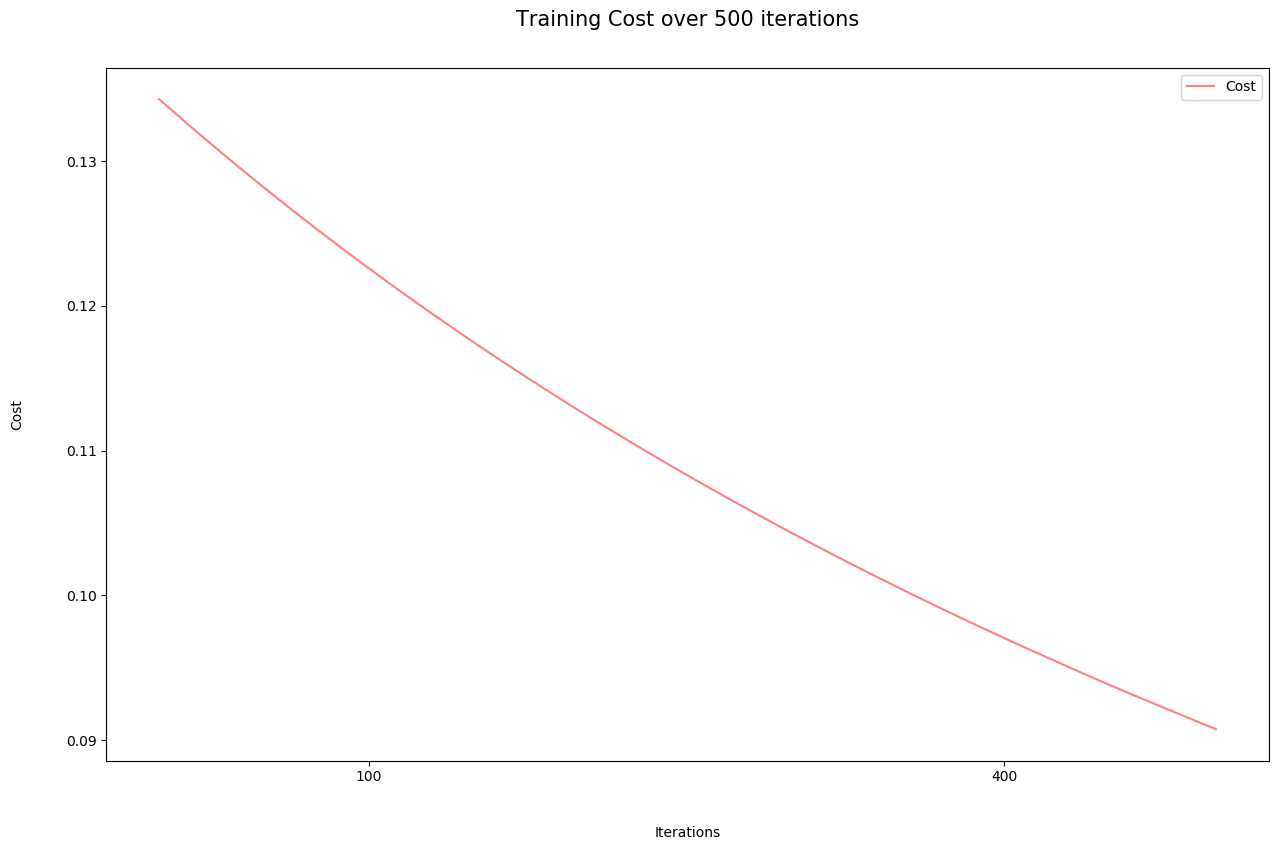
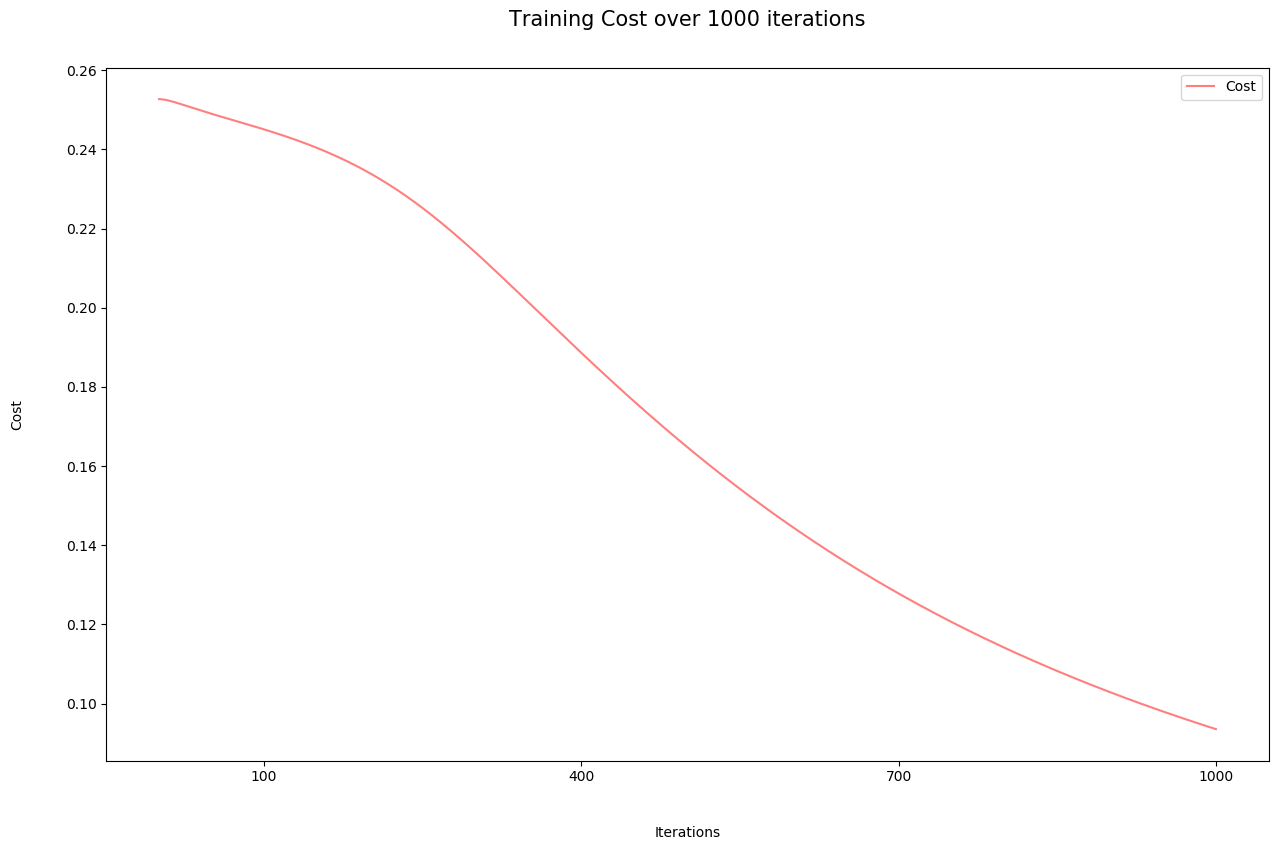
Implement MSELoss and few bug fixes

diff --git a/src/loss_functions/MSELoss.c b/src/loss_functions/MSELoss.c
@@ -1,0 +1,90 @@
+#include "../model/model.h"
+#include "./MSELoss.h"
+
+extern __Model__ * m;
+mse_loss_layer * loss_layer_mse = NULL;
+
+void forward_pass_MSE_LOSS(){
+  //Store the number of training examples in a variable
+  int number_of_examples = m->Y_train->shape[1];
+  dARRAY * Y = loss_layer_mse->gnd_truth;
+  dARRAY * loss = NULL;
+
+  dARRAY * temp_sub = subtract(m->output,Y);
+  loss = power(temp_sub,2);
+
+  free2d(temp_sub);
+  temp_sub = NULL;
+
+  dARRAY * sum_of_losses = sum(loss,1);
+
+  free2d(loss);
+  loss = NULL;
+
+  dARRAY * cost = NULL;
+  dARRAY * cross_entropy_cost = divScalar(sum_of_losses,(float)(number_of_examples));
+  
+  free2d(sum_of_losses);
+  sum_of_losses = NULL;
+
+  float reg_cost=0.0;
+  Computation_Graph * temp = NULL;
+  
+  if(m->regularization!=NULL){
+    temp = m->graph->next_layer;
+    if(!strcasecmp(m->regularization,"L2")){
+      float layer_frobenius = 0.0;
+      while(temp->next_layer->type!=LOSS){
+        layer_frobenius += frobenius_norm(temp->DENSE->weights);
+        temp = temp->next_layer;
+      }
+      reg_cost = m->lambda*layer_frobenius/(2.0*number_of_examples);
+    }
+    else if(!strcasecmp(m->regularization,"L1")){
+      float layer_manhattan = 0.0;
+      while(temp->next_layer->type!=LOSS){
+        layer_manhattan += Manhattan_distance(temp->DENSE->weights);
+        temp = temp->next_layer;
+      }
+      reg_cost = m->lambda * layer_manhattan/(2.0*number_of_examples);
+    }
+  }
+  if(m->regularization!=NULL){
+    cost = addScalar(cross_entropy_cost,reg_cost);
+    temp = NULL;
+
+    free2d(cross_entropy_cost);
+    cross_entropy_cost = NULL;
+
+    float total_cost = cost->matrix[0];
+    free2d(cost);
+    cost = NULL;
+    
+    m->iter_cost = total_cost;
+  }
+  else{
+    cost = cross_entropy_cost;
+    float total_cost = cost->matrix[0];
+    free2d(cost);
+    cost = NULL;
+    m->iter_cost = total_cost;
+  }
+}
+
+void backward_pass_MSE_LOSS(){
+  dARRAY * Y = loss_layer_mse->gnd_truth;
+  dARRAY * temp = subtract(m->output,Y);
+  loss_layer_mse->grad_out = mulScalar(temp,2.0);
+  free2d(temp);
+  temp = NULL;
+}
+
+void (MSELoss)(mse_loss_args args){
+  loss_layer_mse = (mse_loss_layer*)malloc(sizeof(mse_loss_layer));
+  loss_layer_mse->cost = 0.0;
+  loss_layer_mse->grad_out = NULL;
+  loss_layer_mse->forward = forward_pass_MSE_LOSS;
+  loss_layer_mse->backward = backward_pass_MSE_LOSS;
+  loss_layer_mse->gnd_truth = m->Y_train;
+  append_graph(loss_layer_mse,"loss");
+}

diff --git a/src/optimizers/momentum.c b/src/optimizers/momentum.c
@@ -1,0 +1,74 @@
+#include "./momentum.h"
+#include "../model/model.h"
+
+extern __Model__ * m;
+
+void Momentum(){
+  Computation_Graph * temp = m->graph;
+  int layer = 0;
+  while(temp!=NULL){
+    if(temp->type==LOSS || temp->type==INPUT){
+      temp = temp->next_layer;
+      continue;
+    }
+    //calculate first momentum
+    //m_dW
+    float mul_factor = 1-m->beta1;
+    dARRAY * term1 = mulScalar(temp->DENSE->dW,mul_factor);
+    mul_factor = m->beta;
+    dARRAY * term2 = mulScalar(m->m_t_dW[layer],mul_factor);
+    free2d(m->m_t_dW[layer]);
+    m->m_t_dW[layer] = NULL;
+    m->m_t_dW[layer] = add(term1,term2);
+
+    free2d(term1);
+    free2d(term2);
+    term1 = term2 = NULL;
+
+    //m_db
+    term1 = mulScalar(temp->DENSE->db,mul_factor);
+    mul_factor = m->beta;
+    term2 = mulScalar(m->m_t_db[layer],mul_factor);
+    free2d(m->m_t_db[layer]);
+    m->m_t_db[layer] = NULL;
+    m->m_t_db[layer] = add(term1,term2);
+
+    free2d(term1);
+    free2d(term2);
+    term1 = term2 = NULL;
+
+    dARRAY * layer_weights, * layer_biases;
+    layer_weights = NULL;
+    layer_biases = NULL;
+
+    layer_weights = temp->DENSE->weights;
+    layer_biases = temp->DENSE->bias;
+
+    dARRAY * mul_lr_w = mulScalar(m->m_t_dW[layer],m->learning_rate);
+    dARRAY * mul_lr_b = mulScalar(m->m_t_db[layer],m->learning_rate);
+
+    temp->DENSE->weights = subtract(layer_weights,mul_lr_w);
+    temp->DENSE->bias = subtract(layer_biases,mul_lr_b);
+
+    free2d(layer_weights);
+    free2d(layer_biases);
+    free2d(mul_lr_w);
+    free2d(mul_lr_b);
+    layer_weights = layer_biases = mul_lr_w = mul_lr_b = NULL;
+
+    if(temp->DENSE->dropout_mask!=NULL){
+      free2d(temp->DENSE->dropout_mask);
+    }
+    if(temp->DENSE->A!=NULL)
+      free2d(temp->DENSE->A);
+    if(temp->DENSE->cache!=NULL)
+      free2d(temp->DENSE->cache);
+    if(temp->DENSE->dA!=NULL)
+      free2d(temp->DENSE->dA);
+    if(temp->DENSE->dZ!=NULL)
+      free2d(temp->DENSE->dZ);
+    temp->DENSE->dA=temp->DENSE->cache = temp->DENSE->A = temp->DENSE->dropout_mask = temp->DENSE->dZ = NULL;
+    layer++;
+    temp = temp->next_layer;
+  }
+}

diff --git a/src/test/test_network.c b/src/test/test_network.c
@@ -12,40 +12,40 @@ int main(){
   int x_cv_dims[] = {12288,10};
   dARRAY * x_cv = load_x_cv(x_cv_dims);
   
-  int y_train_dims[] = {2,10};
+  int y_train_dims[] = {1,10};
   dARRAY * y_train = load_y_train(y_train_dims);
   
-  int y_cv_dims[] = {2,10};
+  int y_cv_dims[] = {1,10};
   dARRAY * y_cv = load_y_cv(y_cv_dims);
   
   int x_test_dims[] = {12288,10};
-  int y_test_dims[] = {2,10};
+  int y_test_dims[] = {1,10};
 
   dARRAY * x_test = load_x_test(x_test_dims);
   dARRAY * y_test = load_y_test(y_test_dims);
 
   Input(.layer_size=12288);
-  Dense(.layer_size=10,.activation="relu",.initializer="he",.layer_type="hidden");
-  Dense(.layer_size=32,.activation="relu",.initializer="he",.layer_type="hidden");
+  // Dense(.layer_size=10,.activation="relu",.initializer="he",.layer_type="hidden");
+  // Dense(.layer_size=32,.activation="relu",.initializer="he",.layer_type="hidden");
   Dense(.layer_size=16,.activation="relu",.layer_type="hidden");
-  Dense(.layer_size=2,.activation="softmax",.initializer="random",.layer_type="output");
+  Dense(.layer_size=1,.activation="sigmoid",.initializer="random",.layer_type="output");
   Model(.x_train=x_train,.Y_train=y_train,.x_cv=x_cv,.Y_cv=y_cv,.x_test=x_test,.Y_test=y_test,\
-        .num_iter=500,.learning_rate=4e-3,.optimizer="sgd",.checkpoint_every=-1
+        .num_iter=1000,.learning_rate=4e-3,.optimizer="momentum",.checkpoint_every=-1,.loss="MSELoss"
        );
 
   // m->load_model("test_patch2.t7");
-  // m->fit();
+  m->fit();
   // m->save_model("test_patch3.t7");
-  // m->test();
+  m->test();
 
-  // dARRAY * test_img1 = load_test_image("test_img1.data");
-  // dARRAY * test_img2 = load_test_image("test_img2.data");
+  dARRAY * test_img1 = load_test_image("test_img1.data");
+  dARRAY * test_img2 = load_test_image("test_img2.data");
 
-  // m->predict(test_img1);
-  // m->predict(test_img2);
+  m->predict(test_img1);
+  m->predict(test_img2);
   
-  // free2d(test_img1);
-  // free2d(test_img2);
-  // plot_train_scores();
+  free2d(test_img1);
+  free2d(test_img2);
+  plot_train_scores();
   destroy_model();
 }

diff --git a/src/model/model.c b/src/model/model.c
@@ -23,6 +23,7 @@ void __initialize_params__(){
   if(!strcasecmp(m->optimizer,"adam")) flag = 1;
   if(!strcasecmp(m->optimizer,"adagrad")) flag = 2;
   if(!strcasecmp(m->optimizer,"rmsprop")) flag = 2;
+  if(!strcasecmp(m->optimizer,"momentum")) flag = 3;
   while(temp!=NULL){
     m->current_layer = temp;
     if(temp->type==DENSE){
@@ -42,6 +43,13 @@ void __initialize_params__(){
       int dims_db[] = {temp->DENSE->bias->shape[0],temp->DENSE->bias->shape[1]};
       m->cache_dW[index] = zeros(dims_dW);
       m->cache_db[index] = zeros(dims_db);
+      index++; 
+    }
+    else if(flag==3 && temp->type!=LOSS){
+      int dims_dW[] = {temp->DENSE->weights->shape[0],temp->DENSE->weights->shape[1]};
+      int dims_db[] = {temp->DENSE->bias->shape[0],temp->DENSE->bias->shape[1]};
+      m->m_t_dW[index] = zeros(dims_dW);
+      m->m_t_db[index] = zeros(dims_db);
       index++; 
     }
     temp = temp->next_layer;
@@ -295,6 +303,9 @@ void __fit__(){
     }
     else if(!strcasecmp(m->optimizer,"sgd")){
       SGD();
+    }
+    else if(!strcasecmp(m->optimizer,"momentum")){
+      Momentum();
     }
     else{
       printf("Optimizer selected is not available\n");
@@ -654,7 +665,7 @@ void (destroy_model)(){
   if(m->Y_cv!=NULL)
   free2d(m->Y_cv);
   if(m->output!=NULL)
-  free2d(m->output);
+  // free2d(m->output);
   if(m->x_test!=NULL)
   free2d(m->x_test);
   if(m->Y_test!=NULL)
@@ -695,6 +706,7 @@ void (Model)(Model_args model_args){
   m->regularization = model_args.regularization;
 
   if(!strcasecmp(m->loss,"cross_entropy_loss")) cross_entropy_loss();
+  if(!strcasecmp(m->loss,"MSELoss")) MSELoss();
 
   //initialize hyperparameters for various optimizers
   m->optimizer = model_args.optimizer; // Optimizer choice

diff --git a/src/loss_functions/cross_entropy_loss.c b/src/loss_functions/cross_entropy_loss.c
@@ -154,31 +154,10 @@ void backward_pass_L2_LOSS(){
   int act_dims[] = {m->output->shape[0],m->output->shape[1]};
   if(!strcasecmp(m->current_layer->prev_layer->DENSE->activation,"softmax")){
     dARRAY * temp = divison(loss_layer->gnd_truth,m->output);
-    dARRAY * temp2 = transpose(temp);
-    
-    dARRAY * class_sum = (dARRAY*)malloc(sizeof(dARRAY));
-    class_sum->matrix = (float*)calloc(temp->shape[1],sizeof(float));
-    
-    omp_set_num_threads(8);
-    #pragma omp parallel for num_threads(8) collapse(1) shared(temp,class_sum) schedule(static)
-    for(int i=0;i<temp2->shape[0];i++){
-      float sum_of_exps=0.0;
-      for(int j=0;j<temp2->shape[1];j++){
-        sum_of_exps+= temp2->matrix[i*temp2->shape[1]+j];
-      }
-      class_sum->matrix[i] = sum_of_exps;
-    }
-    class_sum->shape[0] = 1;
-    class_sum->shape[1] = temp->shape[1];
-    
+    dARRAY * class_sum = sum(temp,0);
     free2d(temp);
     temp = NULL;
-
-    free2d(temp2);
-    temp2 = NULL;
-    
     loss_layer->grad_out = mulScalar(class_sum,-1.0);
-    
     free2d(class_sum);
     class_sum = NULL;
   }

diff --git a/src/loss_functions/MSELoss.h b/src/loss_functions/MSELoss.h
@@ -1,0 +1,34 @@
+#ifndef MSELOSS_H
+#define MSELOSS_H
+
+#include "../layers/Dense.h"
+#include "../utils/utils.h"
+
+
+#ifdef __cplusplus
+extern "C"{
+#endif
+  typedef void (*__compute)();
+  void (MSELoss)();
+  void backward_pass_MSE_LOSS();
+  void forward_pass_MSE_LOSS();
+#ifdef __cplusplus
+}
+#endif
+
+typedef struct mse_loss_layer{
+  double cost;
+  dARRAY * grad_out;
+  dARRAY * gnd_truth;
+  __compute forward;
+  __compute backward;
+}mse_loss_layer;
+
+typedef struct mse_loss_args{
+  dARRAY * gnd_truth;
+  int isValdiation;
+}mse_loss_args;
+
+#define MSELoss(...) MSELoss((mse_loss_args){.gnd_truth=m->Y_train,.isValdiation=0,__VA_ARGS__});
+
+#endif //MSELOSS_H

diff --git a/src/neural_net/neural_net.h b/src/neural_net/neural_net.h
@@ -5,7 +5,9 @@
 #include "../layers/Input.h"
 #include "../utils/utils.h"
 #include "../loss_functions/cross_entropy_loss.h"
+#include "../loss_functions/MSELoss.h"
 #include "../optimizers/gradient_descent.h"
+#include "../optimizers/momentum.h"
 #include "../optimizers/adam.h"
 #include "../optimizers/adagrad.h"
 #include "../optimizers/rmsprop.h"

diff --git a/src/optimizers/momentum.h b/src/optimizers/momentum.h
@@ -1,0 +1,13 @@
+#ifndef MOMENTUM_H
+#define MOMENTUM_H
+
+#include "../utils/utils.h"
+
+#ifdef __cplusplus
+extern "C"{
+#endif
+  void Momentum();
+#ifdef __cplusplus
+}
+#endif
+#endif
